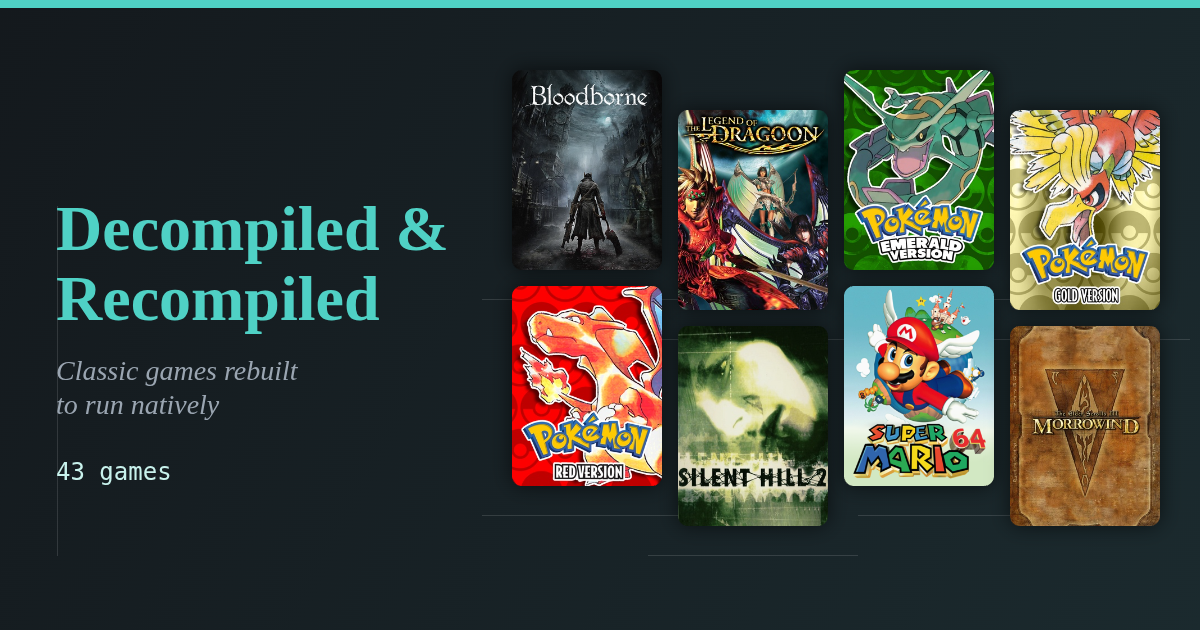
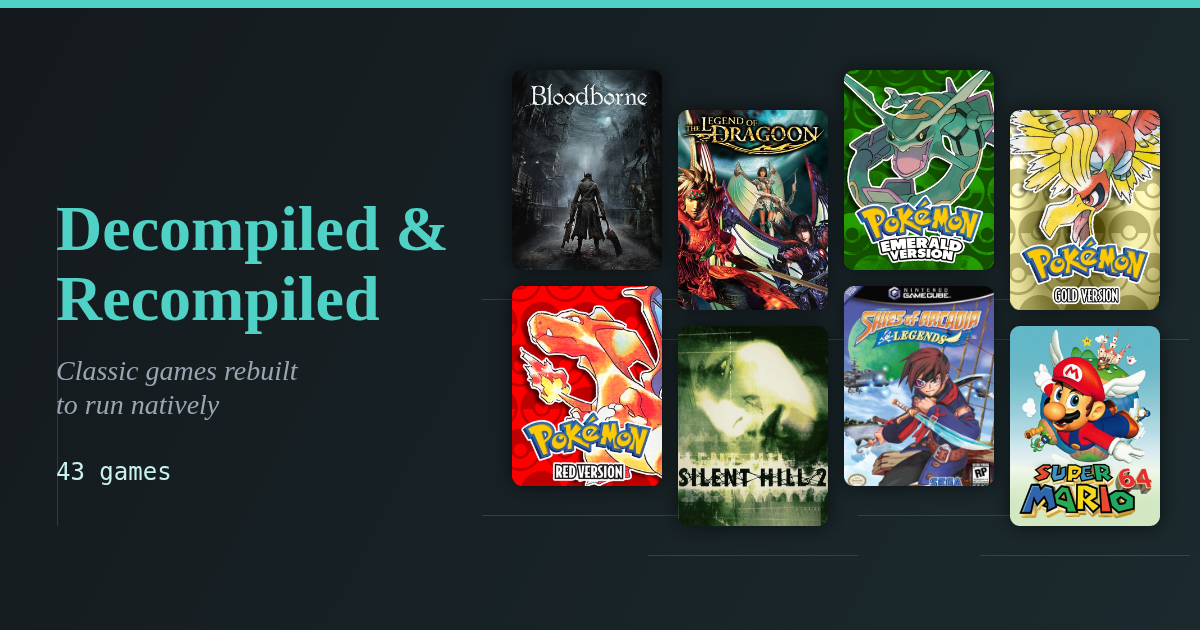
2026-10-24 15:54

Changed region(s): [[0.6783, 0.4524, 0.9867, 0.8444]]

diff --git a/recomp/index.html b/recomp/index.html
@@ -32,7 +32,7 @@
 <div id="recomp-body"></div>
 <div class="recomp-header-sub">Updated 2026-10-24</div>
 </div>
-<script type="application/json" id="recomp-data">[{"title":"Banjo-Kazooie","year":"1998","status":"Released","hq":false,"platform":["N64"],"target":["3DS","PC"],"notes":"Supports 3D","cover":"https://cdn2.steamgriddb.com/thumb/260e341a628166bf868c778bcca8fdd7.png","urls":["https://github.com/aidenator/Lighthouse-3DS/releases","https://github.com/BanjoRecomp/BanjoRecomp/releases"]},{"title":"Bloodborne","year":"2015","status":"Released","hq":true,"platform":["PS4"],"target":["PC"],"notes":"v0.6 - high quality","cover":"https://cdn2.steamgriddb.com/thumb/021399af062379408df9c358a1a83cdb.jpg","urls":["https://github.com/deadinside28/bloodborne_pc/releases"]},{"title":"Burnout 3: Takedown","year":"2004","status":"Released","hq":false,"platform":["PS2"],"target":["PC"],"notes":"","cover":"https://cdn2.steamgriddb.com/thumb/3af1c3da98c65277781b9a92e2f1d4c8.jpg","urls":["https://github.com/danielgomesvieira2000/burnout3-pc/releases"]},{"title":"Dark Cloud","year":"2000","status":"Unverified","hq":false,"platform":["PS2"],"target":["PC"],"notes":"Not started until after 2?","cover":"https://cdn2.steamgriddb.com/thumb/79d58cf9cf3ba08874b23b73a1cbdf08.jpg","urls":["https://github.com/TheMoonPeople/Chronicle"]},{"title":"Dark Cloud 2","year":"2002","status":"In Progress","hq":false,"platform":["PS2"],"target":["PC"],"notes":"v0.9.5 - playable, needs improvement","cover":"https://cdn2.steamgriddb.com/thumb/b084f475f1244ad87ae8faa2b3bd82a5.jpg","urls":["https://github.com/Red-tv141/DC2-PS2RECOMP/releases"]},{"title":"Deception I - Tecmo's Deception: Invitation to Darkness","year":"1996","status":"Released","hq":false,"platform":["PS1"],"target":["PC"],"notes":"","cover":"https://cdn2.steamgriddb.com/thumb/de6e717e11835cc693a4ed7c8a722690.jpg","urls":["https://github.com/dannyowelch/deception-recomp/releases"]},{"title":"Dinosaur Planet","year":"","status":"Released","hq":false,"platform":["N64"],"target":["PC"],"notes":"Unrelease precursor to Starfox Adventures","cover":"https://cdn2.steamgriddb.com/thumb/11738c383581f80d010ca13ac005d763.jpg","urls":["https://github.com/DinosaurPlanetRecomp/dino-recomp/releases"]},{"title":"Eternal Darkness: Sanity's Requiem","year":"2002","status":"Released","hq":false,"platform":["GC"],"target":["PC"],"notes":"","cover":"https://cdn2.steamgriddb.com/thumb/3e42021abd9df64e0f46279806ed9970.jpg","urls":["https://github.com/griches/EternalDarknessRecomp/releases"]},{"title":"God of War III","year":"","status":"Released","hq":false,"platform":["PS4"],"target":["PC"],"notes":"Recomp of PS4 remastered edition.","cover":"https://cdn2.steamgriddb.com/thumb/bc6a17604012da6895c1bacd28cdb9fa.jpg","urls":["https://github.com/FelipePrado0/SpartanPort/releases"]},{"title":"GoldenEye 007 XBLA","year":"2010","status":"Released","hq":false,"platform":["N64","Xbox"],"target":["PC"],"notes":"Unreleased XBOX/XBLA version. A N64 recomp also exists.","cover":"https://cdn2.steamgriddb.com/thumb/f0971d67a49ade9bab406f7664e8129d.jpg","urls":["https://github.com/CaiusCodes/GoldenEye-007-XBLA-PC-Recomp/releases"]},{"title":"Gravity Rush","year":"2012","status":"Released","hq":false,"platform":["PS4"],"target":["PC"],"notes":"v0.1.8","cover":"https://cdn2.steamgriddb.com/thumb/b5c6f7094bd23b059624131ec409a422.jpg","urls":["https://github.com/LucaPazienza/gravityrush_pc/releases/"]},{"title":"Gravity Rush 2","year":"2017","status":"Released","hq":false,"platform":["PS4"],"target":["PC"],"notes":"Same author as Last Guardian port.","cover":["https://cdn2.steamgriddb.com/thumb/6ac9536a82fe2896847e4c4fb1f72de2.jpg"],"urls":["https://recompsoftware.com/p/gr2-pc/"]},{"title":"Ico","year":"2001","status":"Released","hq":false,"platform":["PS2"],"target":["PC"],"notes":"v0.8.6","cover":"https://cdn2.steamgriddb.com/thumb/54c8077a3713597237f91535a6082b1f.jpg","urls":["https://github.com/nathanialf/ico-pc/releases"]},{"title":"Jak and Daxter: The Precursor Legacy","year":"2001","status":"Released","hq":false,"platform":["PS2"],"target":["PC"],"notes":"OpenGOAL is a total engine rewrite for Jak 1,2,3.","cover":"https://cdn2.steamgriddb.com/thumb/a86c4aec1bcf14eb30646ed8df2d2401.jpg","urls":["https://opengoal.dev/"]},{"title":"Jet Force Gemini","year":"1999","status":"Released","hq":false,"platform":["N64"],"target":["PC"],"notes":"","cover":"https://cdn2.steamgriddb.com/thumb/e40084a1c911addf8a36b6058c123cdc.jpg","urls":["https://github.com/TK22-26/JetForceGemini-Recomp/releases"]},{"title":"King's Field IV The Ancient City","year":"2001","status":"Unverified","hq":false,"platform":["PS2"],"target":["PC"],"notes":"","cover":"https://cdn2.steamgriddb.com/thumb/1fb4554ec4192679831737705c8839f2.jpg","urls":["https://voicedrew11.github.io/kfiv-decomp/progress/"]},{"title":"Legend of Dragoon","year":"2000","status":"Released","hq":true,"platform":["PS1"],"target":["PC"],"notes":"v3.0 - high quality","cover":"https://cdn2.steamgriddb.com/thumb/aa82fd1c7df60df76d515816cbdb76a0.jpg","urls":["https://github.com/Legend-of-Dragoon-Modding/Severed-Chains/releases"]},{"title":"Mega Man Legends","year":"1997","status":"Released","hq":false,"platform":["PS1"],"target":["PC"],"notes":"","cover":"https://cdn2.steamgriddb.com/thumb/de46b308829039baf89d3f4aee7e22a9.jpg","urls":["https://github.com/VuloB1/MegaManLegendsRecomp/releases/tag/v0.1.0"]},{"title":"Mega Man Legends 2","year":"2000","status":"Unverified","hq":false,"platform":["PS1"],"target":["PC"],"notes":"Unverified","cover":"https://cdn2.steamgriddb.com/thumb/c4f67f7d632843a4fc5dbe9c090df9df.jpg","urls":["https://github.com/alexbeavs-ps1-ports/mega-man-legends-2-recomp/releases"]},{"title":"P.T.","year":"2014","status":"Released","hq":false,"platform":["PS4"],"target":["PC"],"notes":"One of the dumbest things sony ever did was not follow-up this demo.","cover":"https://cdn2.steamgriddb.com/thumb/47bdcd897fc669aea056500f27aa90a4.jpg","urls":["https://github.com/LoreanXavier/pt-pc/releases"]},{"title":"Perfect Dark","year":"2000","status":"Released","hq":false,"platform":["N64"],"target":["PC"],"notes":"","cover":"https://cdn2.steamgriddb.com/thumb/f2eaa301f9c53bb10fb8e5b9d3d0ea9c.jpg","urls":["https://github.com/n64hub/perfect-dark-recomp/releases"]},{"title":"Pokémon Emerald","year":"2004","status":"Released","hq":true,"platform":["GBA"],"target":["3DS"],"notes":"Dual screen support, 3D voxel graphics option.","cover":"https://cdn2.steamgriddb.com/thumb/3cf4fceab9d14ef6a28b0a964d27d6f5.jpg","urls":["https://emerald-3ds.com/"]},{"title":"Pokémon Gold","year":"1999","status":"Released","hq":true,"platform":["GB"],"target":["PC"],"notes":"Might prefer Polished Crystal romhack to this recomp.","cover":"https://cdn2.steamgriddb.com/thumb/e82fdbf5ac57bb46fb25935dc894038c.jpg","urls":["https://gen2recomp.net/"]},{"title":"Pokémon Red","year":"1996","status":"Released","hq":true,"platform":["GB"],"target":["PC"],"notes":"","cover":"https://cdn2.steamgriddb.com/thumb/4d53e7e87772a51972bc942a99de63c9.jpg","urls":["https://gen1recomp.com/"]},{"title":"Resident Evil: Code: Veronica","year":"2000","status":"Released","hq":false,"platform":["PS2"],"target":["PC"],"notes":"","cover":"https://cdn2.steamgriddb.com/thumb/9ab45beb213b81202a330cfa5e99b411.jpg","urls":["https://github.com/aikatore/recvx-enhanced-port/releases"]},{"title":"Shadow of the Colossus","year":"2005","status":"Released","hq":false,"platform":["PS2","PS4"],"target":["PC"],"notes":"PS4 version, may only have windows executable.","cover":"https://cdn2.steamgriddb.com/thumb/c85bd019483ea2c17032bf940015d8c6.jpg","urls":["https://github.com/AjncSystem/ShadowOfTheColossus-PC/releases"]},{"title":"Silent Hill","year":"1999","status":"Released","hq":false,"platform":["PS1"],"target":["PC"],"notes":"","cover":"https://cdn2.steamgriddb.com/thumb/1dcc077aab5503c56609968fc56e3f1b.jpg","urls":["https://github.com/SlickAmogus/silent-hill-decomp/releases"]},{"title":"Silent Hill 2","year":"2001","status":"Released","hq":true,"platform":["PS2"],"target":["3DS","PC"],"notes":"sh23ds is a new engine, written in C for the 3DS, that plays Silent Hill 2 from the PC version's own data.","cover":"https://cdn2.steamgriddb.com/thumb/b9c7994af9dd5f0684c53371e91444a8.jpg","urls":["https://github.com/ankushKun/sh23ds/releases"]},{"title":"Silent Hill: Downpour","year":"2011","status":"Released","hq":false,"platform":["PS3"],"target":["PC"],"notes":"v1.1.8","cover":"https://cdn2.steamgriddb.com/thumb/7f996610ab63c3bc9590c1bd8e9a7d65.jpg","urls":["https://github.com/LittleBitUA/DownpourRecomp/releases"]},{"title":"Skies of Arcadia","year":"2000","status":"Released","hq":false,"platform":["GC"],"target":["PC"],"notes":"Allows extraction of uncompressed audio from dreamcast version for usage in gamecube game.","cover":"https://m.media-amazon.com/images/I/51J1KQMPg6L.jpg","urls":["https://github.com/ogdanimal/SkiesOfArcadiaLegends-Recomp/releases"]},{"title":"Super Mario 64","year":"1996","status":"Released","hq":true,"platform":["N64"],"target":["3DS"],"notes":"Supports 3D","cover":"https://cdn2.steamgriddb.com/thumb/ea98cb4ef75b56acda616e5166438fb6.png","urls":["https://github.com/Splashy527/sm64-port"]},{"title":"The Elder Scrolls III: Morrowind (openMW - Tamriel Rebuild)","year":"2002","status":"Released","hq":true,"platform":["PC"],"target":["PC"],"notes":"OpenMW is a total engine rewrite and the preferred way to play.","cover":"https://cdn2.steamgriddb.com/thumb/1ac14644c9b40ddeb100f417af0e608b.jpg","urls":["https://openmw.org/","https://www.tamriel-rebuilt.org/","https://openmw-vr.readthedocs.io/en/latest/manuals/installation/install-openmw-vr.html"]},{"title":"The Last Guardian","year":"2016","status":"Released","hq":false,"platform":["PS4"],"target":["PC"],"notes":"","cover":"https://cdn2.steamgriddb.com/thumb/9de0389a7c202d5101fa0543cd37daed.jpg","urls":["https://github.com/HayatoG/tlg_pc/releases"]},{"title":"The Legend of Zelda: A Link to the Past","year":"","status":"Released","hq":false,"platform":["SNES"],"target":["3DS","PC"],"notes":"Supports dual screen","cover":"https://cdn2.steamgriddb.com/thumb/7edaadde50012f0860952123564eb1ba.jpg","urls":["https://github.com/EstebanPdN/zelda-alttp-3ds/releases"]},{"title":"The Legend of Zelda: Link's Awakening","year":"2019","status":"Released","hq":false,"platform":["SWITCH"],"target":["PC"],"notes":"","cover":"https://cdn2.steamgriddb.com/thumb/62e42d5128071bb96fc3a269019e0504.png","urls":["https://github.com/peiikai/LASRecomp/releases"]},{"title":"The Legend of Zelda: Link's Awakening DX","year":"1993","status":"Released","hq":false,"platform":["GB"],"target":["PC"],"notes":"Full remake","cover":"https://cdn2.steamgriddb.com/thumb/d49341a06820dffb768971bcb1b951c7.jpg","urls":["https://archive.org/details/links-awakening-dx-hd"]},{"title":"The Legend of Zelda: Majora's Mask","year":"2000","status":"Released","hq":false,"platform":["N64"],"target":["PC"],"notes":"v1.2.2","cover":"https://cdn2.steamgriddb.com/thumb/775679ee9220a358ee19f572041e40f0.jpg","urls":["https://github.com/Zelda64Recomp/Zelda64Recomp/releases"]},{"title":"The Legend of Zelda: Ocarina of Time","year":"1998","status":"Released","hq":true,"platform":["N64"],"target":["PC","PSP"],"notes":"High quality. Includes randomizer.","cover":"https://cdn2.steamgriddb.com/thumb/ed89e6477ff6a465891a5f17f77948ae.jpg","urls":["https://www.shipofharkinian.com/","https://github.com/z2442/oot-PSP/releases"]},{"title":"The Legend of Zelda: The Wind Waker","year":"2002","status":"Released","hq":true,"platform":["GC","WiiU"],"target":["PC"],"notes":"","cover":"https://cdn2.steamgriddb.com/thumb/8d5c0500d7ec1c04842c4b33673d0f43.jpg","urls":["https://github.com/ZeldaWWHDRecomp/ZeldaWWHDRecomp/releases"]},{"title":"The Legend of Zelda: Twilight Princess","year":"2006","status":"Released","hq":true,"platform":["GC"],"target":["PC"],"notes":"High quality","cover":"https://cdn2.steamgriddb.com/thumb/ce3e0c75f7e8a5b4c78a0ac050b73bbd.jpg","urls":["https://twilitrealm.dev/"]},{"title":"The Simpsons: Hit & Run","year":"2003","status":"Released","hq":true,"platform":["PC"],"target":["3DS"],"notes":"Supports 3D and second screen radar map.","cover":"https://cdn2.steamgriddb.com/thumb/3ab7434b949fbf9a19c3fcc830c1bdf1.jpg","urls":["https://github.com/AlexMolina08/The-Simpsons-Hit-and-Run-O3DS/releases"]},{"title":"Uncharted: The Nathan Drake Collection","year":"2015","status":"Released","hq":true,"platform":["PS4"],"target":["PC"],"notes":"v0.3.9 wndows/proton","cover":"https://cdn2.steamgriddb.com/thumb/6374abaaafb1a4c0832a34ffa29b15b0.jpg","urls":["https://github.com/Supermedo/uncharted_pc/releases"]},{"title":"Valkyrie Profile","year":"1999","status":"Unverified","hq":false,"platform":["PS1"],"target":["PC"],"notes":"Unverified. Uses PSXRecomp. PSP vesion Lenneth might be a better experience.","cover":"https://cdn2.steamgriddb.com/thumb/6f1e903e8fca6d5649f73e37364d7c26.jpg","urls":["https://github.com/Ed1z19/ValkyrieRecomp/releases","https://github.com/hachi23/ValkyrieRecomp-Complete"]}]</script>
+<script type="application/json" id="recomp-data">[{"title":"Banjo-Kazooie","year":"1998","status":"Released","hq":false,"platform":["N64"],"target":["3DS","PC"],"notes":"Supports 3D","cover":"https://cdn2.steamgriddb.com/thumb/260e341a628166bf868c778bcca8fdd7.png","urls":["https://github.com/aidenator/Lighthouse-3DS/releases","https://github.com/BanjoRecomp/BanjoRecomp/releases"]},{"title":"Bloodborne","year":"2015","status":"Released","hq":true,"platform":["PS4"],"target":["PC"],"notes":"v0.6 - high quality","cover":"https://cdn2.steamgriddb.com/thumb/021399af062379408df9c358a1a83cdb.jpg","urls":["https://github.com/deadinside28/bloodborne_pc/releases"]},{"title":"Burnout 3: Takedown","year":"2004","status":"Released","hq":false,"platform":["PS2"],"target":["PC"],"notes":"","cover":"https://cdn2.steamgriddb.com/thumb/3af1c3da98c65277781b9a92e2f1d4c8.jpg","urls":["https://github.com/danielgomesvieira2000/burnout3-pc/releases"]},{"title":"Dark Cloud","year":"2000","status":"Unverified","hq":false,"platform":["PS2"],"target":["PC"],"notes":"Not started until after 2?","cover":"https://cdn2.steamgriddb.com/thumb/79d58cf9cf3ba08874b23b73a1cbdf08.jpg","urls":["https://github.com/TheMoonPeople/Chronicle"]},{"title":"Dark Cloud 2","year":"2002","status":"In Progress","hq":false,"platform":["PS2"],"target":["PC"],"notes":"v0.9.5 - playable, needs improvement","cover":"https://cdn2.steamgriddb.com/thumb/b084f475f1244ad87ae8faa2b3bd82a5.jpg","urls":["https://github.com/Red-tv141/DC2-PS2RECOMP/releases"]},{"title":"Deception I - Tecmo's Deception: Invitation to Darkness","year":"1996","status":"Released","hq":false,"platform":["PS1"],"target":["PC"],"notes":"","cover":"https://cdn2.steamgriddb.com/thumb/de6e717e11835cc693a4ed7c8a722690.jpg","urls":["https://github.com/dannyowelch/deception-recomp/releases"]},{"title":"Dinosaur Planet","year":"","status":"Released","hq":false,"platform":["N64"],"target":["PC"],"notes":"Unrelease precursor to Starfox Adventures","cover":"https://cdn2.steamgriddb.com/thumb/11738c383581f80d010ca13ac005d763.jpg","urls":["https://github.com/DinosaurPlanetRecomp/dino-recomp/releases"]},{"title":"Eternal Darkness: Sanity's Requiem","year":"2002","status":"Released","hq":false,"platform":["GC"],"target":["PC"],"notes":"","cover":"https://cdn2.steamgriddb.com/thumb/3e42021abd9df64e0f46279806ed9970.jpg","urls":["https://github.com/griches/EternalDarknessRecomp/releases"]},{"title":"God of War III","year":"","status":"Released","hq":false,"platform":["PS4"],"target":["PC"],"notes":"Recomp of PS4 remastered edition.","cover":"https://cdn2.steamgriddb.com/thumb/bc6a17604012da6895c1bacd28cdb9fa.jpg","urls":["https://github.com/FelipePrado0/SpartanPort/releases"]},{"title":"GoldenEye 007 XBLA","year":"2010","status":"Released","hq":false,"platform":["N64","Xbox"],"target":["PC"],"notes":"Unreleased XBOX/XBLA version. A N64 recomp also exists.","cover":"https://cdn2.steamgriddb.com/thumb/f0971d67a49ade9bab406f7664e8129d.jpg","urls":["https://github.com/CaiusCodes/GoldenEye-007-XBLA-PC-Recomp/releases"]},{"title":"Gravity Rush","year":"2012","status":"Released","hq":false,"platform":["PS4"],"target":["PC"],"notes":"v0.1.8","cover":"https://cdn2.steamgriddb.com/thumb/b5c6f7094bd23b059624131ec409a422.jpg","urls":["https://github.com/LucaPazienza/gravityrush_pc/releases/"]},{"title":"Gravity Rush 2","year":"2017","status":"Released","hq":false,"platform":["PS4"],"target":["PC"],"notes":"Same author as Last Guardian port.","cover":["https://cdn2.steamgriddb.com/thumb/6ac9536a82fe2896847e4c4fb1f72de2.jpg"],"urls":["https://recompsoftware.com/p/gr2-pc/"]},{"title":"Ico","year":"2001","status":"Released","hq":false,"platform":["PS2"],"target":["PC"],"notes":"v0.8.6","cover":"https://cdn2.steamgriddb.com/thumb/54c8077a3713597237f91535a6082b1f.jpg","urls":["https://github.com/nathanialf/ico-pc/releases"]},{"title":"Jak and Daxter: The Precursor Legacy","year":"2001","status":"Released","hq":false,"platform":["PS2"],"target":["PC"],"notes":"OpenGOAL is a total engine rewrite for Jak 1,2,3.","cover":"https://cdn2.steamgriddb.com/thumb/a86c4aec1bcf14eb30646ed8df2d2401.jpg","urls":["https://opengoal.dev/"]},{"title":"Jet Force Gemini","year":"1999","status":"Released","hq":false,"platform":["N64"],"target":["PC"],"notes":"","cover":"https://cdn2.steamgriddb.com/thumb/e40084a1c911addf8a36b6058c123cdc.jpg","urls":["https://github.com/TK22-26/JetForceGemini-Recomp/releases"]},{"title":"King's Field IV The Ancient City","year":"2001","status":"Unverified","hq":false,"platform":["PS2"],"target":["PC"],"notes":"","cover":"https://cdn2.steamgriddb.com/thumb/1fb4554ec4192679831737705c8839f2.jpg","urls":["https://voicedrew11.github.io/kfiv-decomp/progress/"]},{"title":"Legend of Dragoon","year":"2000","status":"Released","hq":true,"platform":["PS1"],"target":["PC"],"notes":"v3.0 - high quality","cover":"https://cdn2.steamgriddb.com/thumb/aa82fd1c7df60df76d515816cbdb76a0.jpg","urls":["https://github.com/Legend-of-Dragoon-Modding/Severed-Chains/releases"]},{"title":"Mega Man Legends","year":"1997","status":"Released","hq":false,"platform":["PS1"],"target":["PC"],"notes":"","cover":"https://cdn2.steamgriddb.com/thumb/de46b308829039baf89d3f4aee7e22a9.jpg","urls":["https://github.com/VuloB1/MegaManLegendsRecomp/releases/tag/v0.1.0"]},{"title":"Mega Man Legends 2","year":"2000","status":"Unverified","hq":false,"platform":["PS1"],"target":["PC"],"notes":"Unverified","cover":"https://cdn2.steamgriddb.com/thumb/c4f67f7d632843a4fc5dbe9c090df9df.jpg","urls":["https://github.com/alexbeavs-ps1-ports/mega-man-legends-2-recomp/releases"]},{"title":"P.T.","year":"2014","status":"Released","hq":false,"platform":["PS4"],"target":["PC"],"notes":"One of the dumbest things sony ever did was not follow-up this demo.","cover":"https://cdn2.steamgriddb.com/thumb/47bdcd897fc669aea056500f27aa90a4.jpg","urls":["https://github.com/LoreanXavier/pt-pc/releases"]},{"title":"Perfect Dark","year":"2000","status":"Released","hq":false,"platform":["N64"],"target":["PC"],"notes":"","cover":"https://cdn2.steamgriddb.com/thumb/f2eaa301f9c53bb10fb8e5b9d3d0ea9c.jpg","urls":["https://github.com/n64hub/perfect-dark-recomp/releases"]},{"title":"Pokémon Emerald","year":"2004","status":"Released","hq":true,"platform":["GBA"],"target":["3DS"],"notes":"Dual screen support, 3D voxel graphics option.","cover":"https://cdn2.steamgriddb.com/thumb/3cf4fceab9d14ef6a28b0a964d27d6f5.jpg","urls":["https://emerald-3ds.com/"]},{"title":"Pokémon Gold","year":"1999","status":"Released","hq":true,"platform":["GB"],"target":["PC"],"notes":"Might prefer Polished Crystal romhack to this recomp.","cover":"https://cdn2.steamgriddb.com/thumb/e82fdbf5ac57bb46fb25935dc894038c.jpg","urls":["https://gen2recomp.net/"]},{"title":"Pokémon Red","year":"1996","status":"Released","hq":true,"platform":["GB"],"target":["PC"],"notes":"","cover":"https://cdn2.steamgriddb.com/thumb/4d53e7e87772a51972bc942a99de63c9.jpg","urls":["https://gen1recomp.com/"]},{"title":"Resident Evil: Code: Veronica","year":"2000","status":"Released","hq":false,"platform":["PS2"],"target":["PC"],"notes":"","cover":"https://cdn2.steamgriddb.com/thumb/9ab45beb213b81202a330cfa5e99b411.jpg","urls":["https://github.com/aikatore/recvx-enhanced-port/releases"]},{"title":"Shadow of the Colossus","year":"2005","status":"Released","hq":false,"platform":["PS2","PS4"],"target":["PC"],"notes":"PS4 version, may only have windows executable.","cover":"https://cdn2.steamgriddb.com/thumb/c85bd019483ea2c17032bf940015d8c6.jpg","urls":["https://github.com/AjncSystem/ShadowOfTheColossus-PC/releases"]},{"title":"Silent Hill","year":"1999","status":"Released","hq":false,"platform":["PS1"],"target":["PC"],"notes":"","cover":"https://cdn2.steamgriddb.com/thumb/1dcc077aab5503c56609968fc56e3f1b.jpg","urls":["https://github.com/SlickAmogus/silent-hill-decomp/releases"]},{"title":"Silent Hill 2","year":"2001","status":"Released","hq":true,"platform":["PS2"],"target":["3DS","PC"],"notes":"sh23ds is a new engine, written in C for the 3DS, that plays Silent Hill 2 from the PC version's own data.","cover":"https://cdn2.steamgriddb.com/thumb/b9c7994af9dd5f0684c53371e91444a8.jpg","urls":["https://github.com/ankushKun/sh23ds/releases"]},{"title":"Silent Hill: Downpour","year":"2011","status":"Released","hq":false,"platform":["PS3"],"target":["PC"],"notes":"v1.1.8","cover":"https://cdn2.steamgriddb.com/thumb/7f996610ab63c3bc9590c1bd8e9a7d65.jpg","urls":["https://github.com/LittleBitUA/DownpourRecomp/releases"]},{"title":"Skies of Arcadia","year":"2000","status":"Released","hq":true,"platform":["GC"],"target":["PC"],"notes":"Allows extraction of uncompressed audio from dreamcast version for usage in gamecube game. Allows minor un-censorship using Japanese dreamcast version.","cover":"https://m.media-amazon.com/images/I/51J1KQMPg6L.jpg","urls":["https://github.com/ogdanimal/SkiesOfArcadiaLegends-Recomp/releases"]},{"title":"Super Mario 64","year":"1996","status":"Released","hq":true,"platform":["N64"],"target":["3DS"],"notes":"Supports 3D","cover":"https://cdn2.steamgriddb.com/thumb/ea98cb4ef75b56acda616e5166438fb6.png","urls":["https://github.com/Splashy527/sm64-port"]},{"title":"The Elder Scrolls III: Morrowind (openMW - Tamriel Rebuild)","year":"2002","status":"Released","hq":true,"platform":["PC"],"target":["PC"],"notes":"OpenMW is a total engine rewrite and the preferred way to play.","cover":"https://cdn2.steamgriddb.com/thumb/1ac14644c9b40ddeb100f417af0e608b.jpg","urls":["https://openmw.org/","https://www.tamriel-rebuilt.org/","https://openmw-vr.readthedocs.io/en/latest/manuals/installation/install-openmw-vr.html"]},{"title":"The Last Guardian","year":"2016","status":"Released","hq":false,"platform":["PS4"],"target":["PC"],"notes":"","cover":"https://cdn2.steamgriddb.com/thumb/9de0389a7c202d5101fa0543cd37daed.jpg","urls":["https://github.com/HayatoG/tlg_pc/releases"]},{"title":"The Legend of Zelda: A Link to the Past","year":"","status":"Released","hq":false,"platform":["SNES"],"target":["3DS","PC"],"notes":"Supports dual screen","cover":"https://cdn2.steamgriddb.com/thumb/7edaadde50012f0860952123564eb1ba.jpg","urls":["https://github.com/EstebanPdN/zelda-alttp-3ds/releases"]},{"title":"The Legend of Zelda: Link's Awakening","year":"2019","status":"Released","hq":false,"platform":["SWITCH"],"target":["PC"],"notes":"","cover":"https://cdn2.steamgriddb.com/thumb/62e42d5128071bb96fc3a269019e0504.png","urls":["https://github.com/peiikai/LASRecomp/releases"]},{"title":"The Legend of Zelda: Link's Awakening DX","year":"1993","status":"Released","hq":false,"platform":["GB"],"target":["PC"],"notes":"Full remake","cover":"https://cdn2.steamgriddb.com/thumb/d49341a06820dffb768971bcb1b951c7.jpg","urls":["https://archive.org/details/links-awakening-dx-hd"]},{"title":"The Legend of Zelda: Majora's Mask","year":"2000","status":"Released","hq":false,"platform":["N64"],"target":["PC"],"notes":"v1.2.2","cover":"https://cdn2.steamgriddb.com/thumb/775679ee9220a358ee19f572041e40f0.jpg","urls":["https://github.com/Zelda64Recomp/Zelda64Recomp/releases"]},{"title":"The Legend of Zelda: Ocarina of Time","year":"1998","status":"Released","hq":true,"platform":["N64"],"target":["PC","PSP"],"notes":"High quality. Includes randomizer.","cover":"https://cdn2.steamgriddb.com/thumb/ed89e6477ff6a465891a5f17f77948ae.jpg","urls":["https://www.shipofharkinian.com/","https://github.com/z2442/oot-PSP/releases"]},{"title":"The Legend of Zelda: The Wind Waker","year":"2002","status":"Released","hq":true,"platform":["GC","WiiU"],"target":["PC"],"notes":"","cover":"https://cdn2.steamgriddb.com/thumb/8d5c0500d7ec1c04842c4b33673d0f43.jpg","urls":["https://github.com/ZeldaWWHDRecomp/ZeldaWWHDRecomp/releases"]},{"title":"The Legend of Zelda: Twilight Princess","year":"2006","status":"Released","hq":true,"platform":["GC"],"target":["PC"],"notes":"High quality","cover":"https://cdn2.steamgriddb.com/thumb/ce3e0c75f7e8a5b4c78a0ac050b73bbd.jpg","urls":["https://twilitrealm.dev/"]},{"title":"The Simpsons: Hit & Run","year":"2003","status":"Released","hq":true,"platform":["PC"],"target":["3DS"],"notes":"Supports 3D and second screen radar map.","cover":"https://cdn2.steamgriddb.com/thumb/3ab7434b949fbf9a19c3fcc830c1bdf1.jpg","urls":["https://github.com/AlexMolina08/The-Simpsons-Hit-and-Run-O3DS/releases"]},{"title":"Uncharted: The Nathan Drake Collection","year":"2015","status":"Released","hq":true,"platform":["PS4"],"target":["PC"],"notes":"v0.3.9 wndows/proton","cover":"https://cdn2.steamgriddb.com/thumb/6374abaaafb1a4c0832a34ffa29b15b0.jpg","urls":["https://github.com/Supermedo/uncharted_pc/releases"]},{"title":"Valkyrie Profile","year":"1999","status":"Unverified","hq":false,"platform":["PS1"],"target":["PC"],"notes":"Unverified. Uses PSXRecomp. PSP vesion Lenneth might be a better experience.","cover":"https://cdn2.steamgriddb.com/thumb/6f1e903e8fca6d5649f73e37364d7c26.jpg","urls":["https://github.com/Ed1z19/ValkyrieRecomp/releases","https://github.com/hachi23/ValkyrieRecomp-Complete"]}]</script>
 <script>(function webScript() {
     const games = JSON.parse(document.getElementById("recomp-data").textContent);
     const STATUS = {
